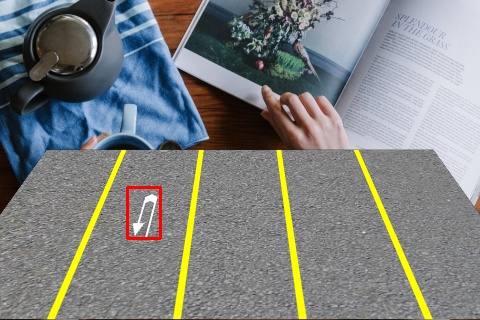
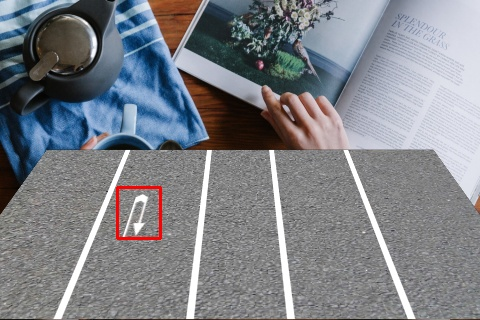
Some errors that must be corrected

diff --git a/src/main.py b/src/main.py
@@ -6,6 +6,7 @@ import json
 import os
 from mark_tracker import MarkTracker
 from road import Road
+from roadimage import RoadImage
 
 IMAGE_COUNT = 0
 
@@ -34,7 +35,8 @@ def get_parameters(settings_path):
     # Getting the road settings:
     divisions = int(json_file["ROAD_SETTINGS"]["DIVISIONS"])
     line_thickness = int(json_file["ROAD_SETTINGS"]["LINE_THICKNESS"])
-    road = {"DIVISIONS" : divisions, "THICKNESS" : line_thickness}
+    road_variation = int(json_file["ROAD_SETTINGS"]["VARIATION"])
+    road = {"DIVISIONS" : divisions, "THICKNESS" : line_thickness, "VARIATION" : road_variation}
 
     # Getting the files paths:
     ground_texture = json_file["PATHS"]["GROUND_TEXTURE"]
@@ -50,7 +52,10 @@ def get_parameters(settings_path):
     z = float(json_file["IMAGE_ROTATION"]["Z_ROTATION"])
     rotation = (x, y, z)
 
-    return dimensions, road, paths, rotation
+    # Getting the seed:
+    seed = int(json_file["SEED"])
+
+    return dimensions, road, paths, rotation, seed
 
 def load_templates(path, dimensions, divisions):
     files = os.listdir(path)
@@ -69,10 +74,11 @@ def load_templates(path, dimensions, divisions):
 # Testing the code:
 
 # Setting the parameters
-DIMENSIONS, ROAD, PATHS, ROTATION = get_parameters("settings.json")
+DIMENSIONS, ROAD, PATHS, ROTATION, SEED = get_parameters("settings.json")
 WIDTH, HEIGHT = DIMENSIONS
 DIVISIONS = ROAD["DIVISIONS"]
 LINE_THICKNESS = ROAD["THICKNESS"]
+ROAD_VARIATION = ROAD["VARIATION"]
 PATH_ASFALTO = PATHS["GROUND"]
 PATH_TEMPLATE = PATHS["TEMPLATE"]
 PATH_WEIRD = PATHS["BACKGROUND"]
@@ -90,10 +96,11 @@ sample_template = templates_dict[template_class] # Just a sample template
 templates = generate_empty_templates_layer(dimensions) # Defining the overlay mask
 
 # Painting the overlay mask with the arrow:
-r = Road(WIDTH, HEIGHT)
-lane_width = math.floor(WIDTH/DIVISIONS)
-for i in range(DIVISIONS):
-    r.newLane(lane_width)
+ri = RoadImage(dimensions, PATH_DESTINY, 0, 0, 0) # Will change in the future
+ri.setSeed(SEED)
+ri.defineLanes(DIVISIONS, ROAD_VARIATION)
+r = ri.getRoad()
+for i in range(1, DIVISIONS):
     if i > 0:
         templates = r.drawSeparator(i - 1, templates)
 templates, template_location = r.insertTemplateAtLane(templates, sample_template, math.floor(DIVISIONS/2))

diff --git a/src/roadimage.py b/src/roadimage.py
@@ -1,0 +1,51 @@
+from road import Road
+from mark_tracker import MarkTracker
+import random
+import math
+
+class RoadImage:
+    # Main informations:
+    # - Image dimensions
+    # - Image path
+    # - Number of lanes
+
+    # TODO: FINISH THE CLASS
+    
+    def __init__(self, dimensions, path, background_images, asphalt_textures, templates):
+        self.w, self.h = dimensions
+        self.templates = templates
+        self.path = path
+        self.road = Road(self.w, self.h)
+
+        # Default values that can be changed later:
+        self.seed = 0
+
+    def setSeed(self, seed):
+        self.seed = seed
+        random.seed(self.seed)
+
+    def defineLanes(self, number_of_lanes, variation):
+        default_lane_proportion = (self.w / float(number_of_lanes))/float(self.w)
+        
+        # Variation is given in percentage
+
+        # Creating the lanes:
+        lane_sizes = []
+        for i in range(number_of_lanes - 1):
+            # "addition" is the variation in the specific lane
+            addition = random.randint(-variation, variation) / 100.00 * default_lane_proportion
+            lane_width = addition + default_lane_proportion
+            lane_width = round(lane_width, 2) # Rounding the value to simplificate the sizes
+            # Adding the lane sizes in a list to create the last lane without any size issue:
+            lane_sizes.append(lane_width)
+            self.road.newLane(math.ceil(lane_width*self.w))
+        
+        # Creating the last lane
+        lanes_size = 0
+        for i in lane_sizes:
+            lanes_size += i
+        lane_width = 1 - lanes_size
+        self.road.newLane(math.floor(lane_width*self.w))
+
+    def getRoad(self):
+        return self.road

diff --git a/src/lane.py b/src/lane.py
@@ -24,7 +24,7 @@ class Lane:
             xa, ya = math.floor(xa), math.floor(ya)
 
         return xa, ya
-    def insertTemplate(self, layer, template, x, y):
+    def insertTemplate(self, layer, template, x, y, even=True):
         # x and y are the coordinates of the center of the template
         
         # Getting template dimensions:
@@ -32,7 +32,10 @@ class Lane:
 
         # Getting lane x and y:
         xc, yc = self.getAbsoluteCoordinates(x, y)
-        xc = xc - self.w/2 # Adjusting Xc position
+
+        # Adjusting Xc position:
+        if even:
+            xc = xc - self.w/2
 
         # Finding the template insertion vertexes:
         x0, x1 = math.floor(xc - t_w/2.00), math.floor(xc + t_w/2.00)

diff --git a/src/road.py b/src/road.py
@@ -20,7 +20,13 @@ class Road:
         self.lanes.append(new_lane)
     def insertTemplateAtLane(self, layer, template, lane_index, x=0, y=0):
         lane = self.lanes[lane_index]
-        return lane.insertTemplate(layer, template, x, y)
+        
+        # Defining if the number of lanes is even:
+        even = False
+        if len(self.lanes) % 2 == 0:
+            even = True
+
+        return lane.insertTemplate(layer, template, x, y, even=even)
     def drawSeparator(self, index, layer, width=3, color=(255, 255, 255), dotted=False, dot_size=3, dot_distance=1, x_dist=0):
         if len(self.lanes) <= index+1:
             return layer
